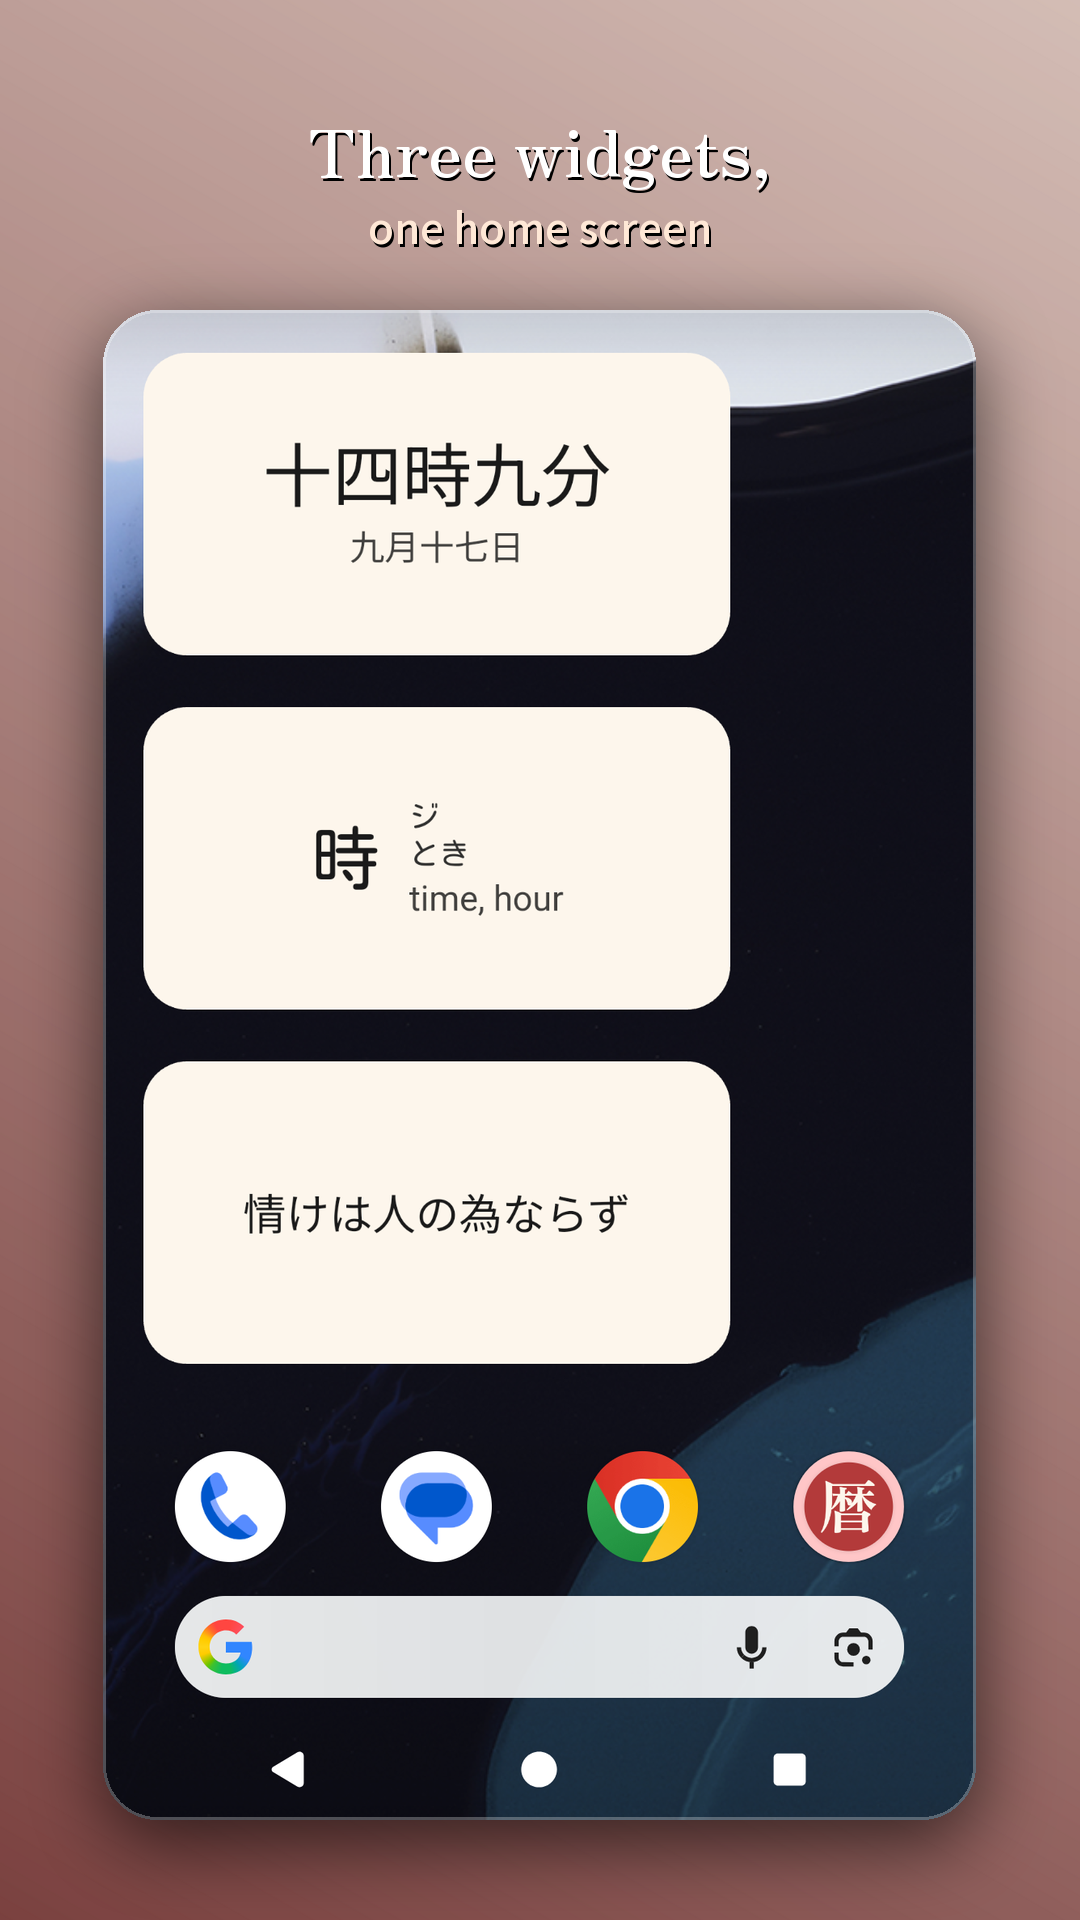
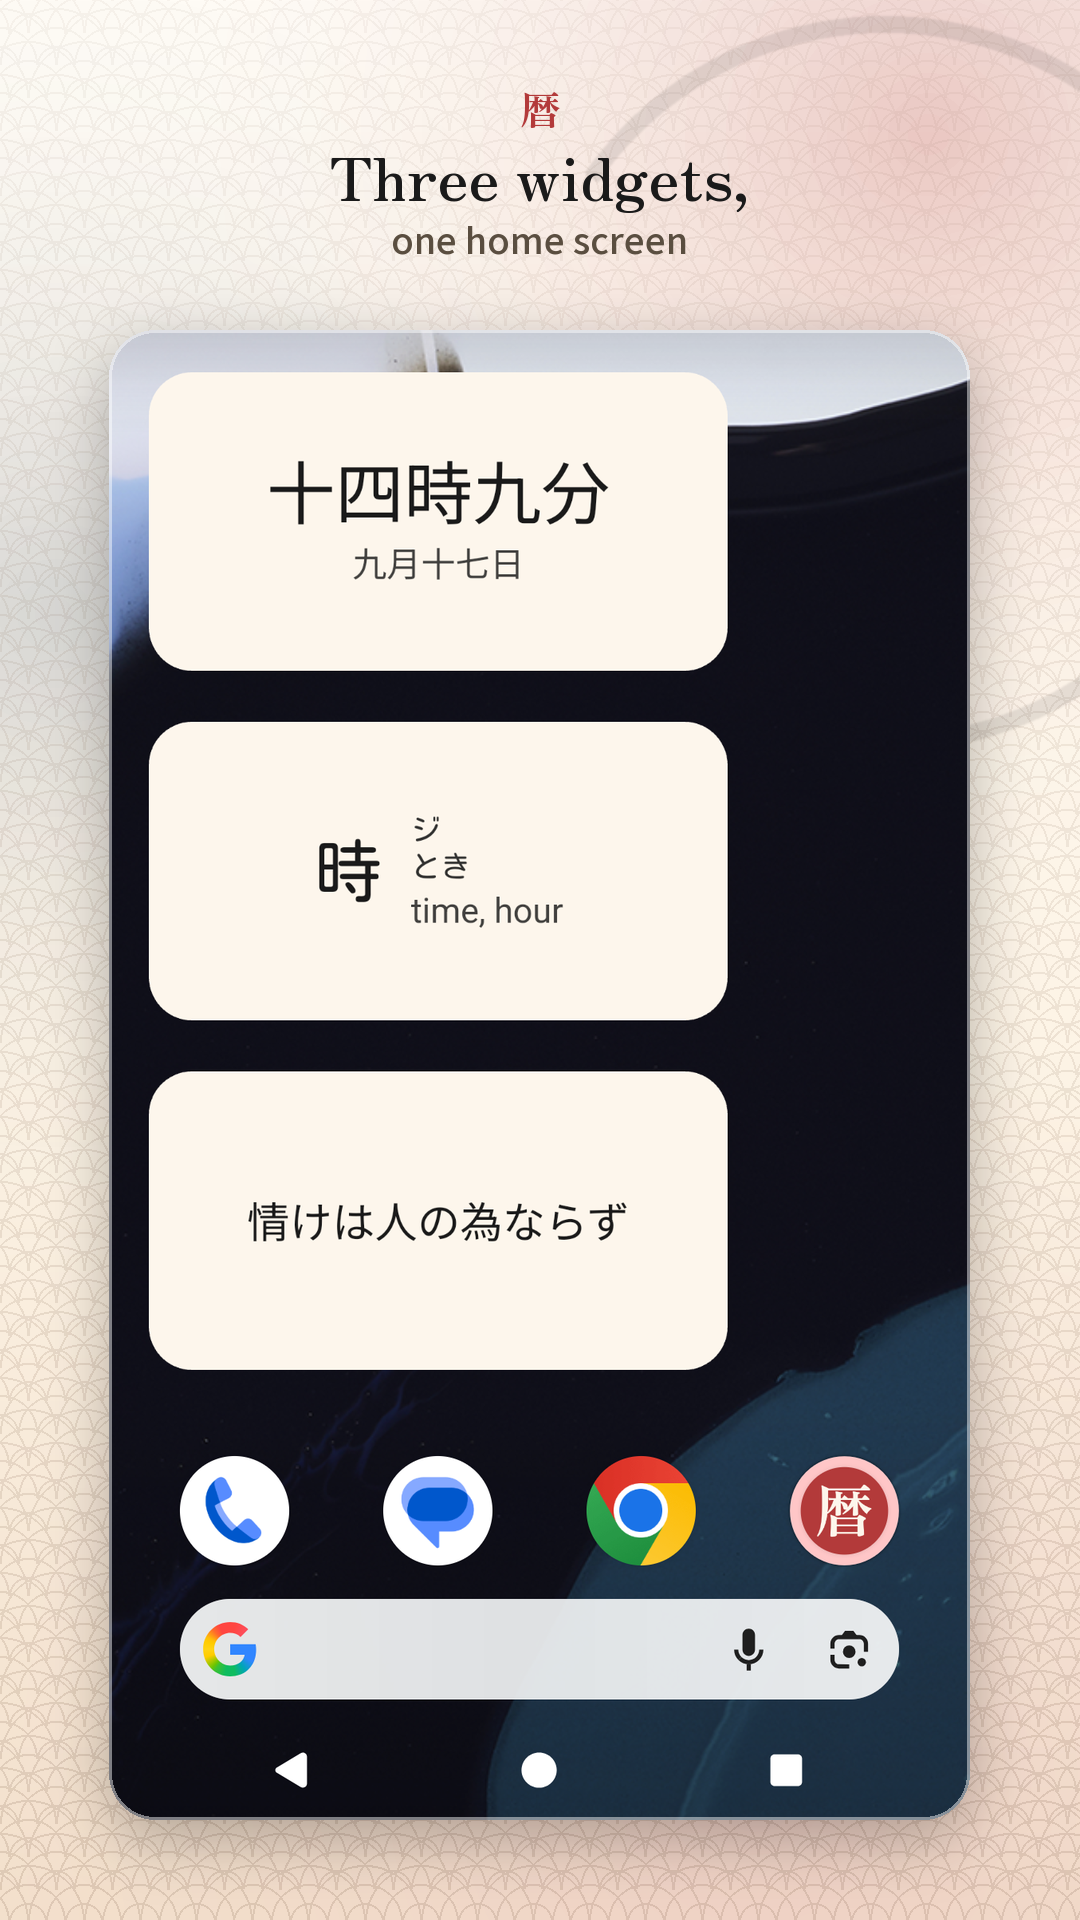
Redesign promo assets with the app's own washi/seigaiha visual identity

diff --git a/scripts/generate_store_assets.py b/scripts/generate_store_assets.py
@@ -1,6 +1,11 @@
 #!/usr/bin/env python3
 """Generate every Play Store image from the raw captures.
 
+The backdrop mirrors the app's own WashiBackground (lib/core/widgets/
+washi_background.dart): a seigaiha wave field, colour aura pools and an
+ensō ring, in the app's real washi/vermillion palette — not a generic
+diagonal-gradient promo template.
+
 Inputs
     store_assets/play_store_icon_512.png     already-generated app icon
     store_assets/screenshots/raw/*.png       device captures, status bar cropped
@@ -12,6 +17,7 @@ Outputs
 Run from the project root:  python3 scripts/generate_store_assets.py
 """
 
+import math
 import pathlib
 import sys
 
@@ -26,10 +32,13 @@ FONT_DIR = ROOT / "assets" / "fonts"
 FONT_DISPLAY = str(FONT_DIR / "ZenOldMincho-Bold.ttf")
 FONT_BODY = str(FONT_DIR / "NotoSansJP-Medium.ttf")
 
-KINARI = (0xFD, 0xF6, 0xEC)
+# The app's own palette (lib/core/theme/kanji_palette.dart).
 SUMI = (0x1A, 0x1A, 0x1A)
-VERMILLION = (0xB3, 0x3A, 0x3A)
-GOLD = (0xA8, 0x84, 0x2C)
+SHU = (0xB3, 0x3A, 0x3A)
+AI = (0x1F, 0x3A, 0x5F)
+KINARI = (0xFD, 0xF6, 0xEC)
+SAKURA = (0xD9, 0x8C, 0xA0)
+INK_LINE = (0x7A, 0x5C, 0x46)
 
 SLIDES = [
     ("home", "Three widgets,", "one home screen"),
@@ -48,20 +57,87 @@ def font(path, size):
         return ImageFont.load_default()
 
 
-def diagonal_gradient(size):
+def washi_canvas(size):
+    """The app's WashiBackground, redrawn at promo scale: base wash,
+    seigaiha waves, colour auras, an ensō ring."""
     w, h = size
-    small = Image.new("RGB", (2, 256))
-    d = ImageDraw.Draw(small)
-    for y in range(256):
-        t = y / 255
-        colour = tuple(
-            int(KINARI[i] + (VERMILLION[i] * 0.55 - KINARI[i]) * t) for i in range(3)
-        )
-        d.line([(0, y), (1, y)], fill=colour)
-    grad = small.resize((max(w, h) * 2, max(w, h) * 2), Image.BICUBIC)
-    return grad.rotate(-30, resample=Image.BICUBIC).crop(
-        (max(w, h) // 2, max(w, h) // 2, max(w, h) // 2 + w, max(w, h) // 2 + h)
+    canvas = Image.new("RGBA", size, KINARI + (255,))
+
+    # Base wash — three-stop vertical gradient like the app's own base.
+    top, mid, bottom = (0xFF, 0xFC, 0xF6), (0xFD, 0xF4, 0xE6), (0xF3, 0xE0, 0xCC)
+    grad = Image.new("RGB", (1, h))
+    for y in range(h):
+        t = y / max(h - 1, 1)
+        if t < 0.55:
+            local = t / 0.55
+            colour = tuple(int(top[i] + (mid[i] - top[i]) * local) for i in range(3))
+        else:
+            local = (t - 0.55) / 0.45
+            colour = tuple(int(mid[i] + (bottom[i] - mid[i]) * local) for i in range(3))
+        grad.putpixel((0, y), colour)
+    canvas.alpha_composite(grad.resize((w, h)).convert("RGBA"))
+
+    # Colour aura pools, same anchor points/relative sizes as the app.
+    def aura(centre, radius, colour, alpha):
+        layer = Image.new("RGBA", size, (0, 0, 0, 0))
+        d = ImageDraw.Draw(layer)
+        steps = 40
+        for i in range(steps, 0, -1):
+            frac = i / steps
+            a = int(alpha * (1 - frac) ** 2)
+            r = radius * frac
+            d.ellipse(
+                [centre[0] - r, centre[1] - r, centre[0] + r, centre[1] + r],
+                fill=colour + (a,),
+            )
+        canvas.alpha_composite(layer)
+
+    aura((w * 0.86, h * 0.07), w * 0.75, SHU, 70)
+    aura((w * 0.05, h * 0.32), w * 0.68, AI, 46)
+    aura((w * 0.7, h * 0.93), w * 0.85, SAKURA, 58)
+
+    # Seigaiha wave field.
+    wave_layer = Image.new("RGBA", size, (0, 0, 0, 0))
+    wd = ImageDraw.Draw(wave_layer)
+    radius = w * 0.052
+    rings = 3
+    step_x = radius
+    step_y = radius * 0.58
+    rows = int(h / step_y) + 2
+    cols = int(w / step_x) + 3
+    for row in range(rows):
+        y = row * step_y
+        depth = min(y / h, 1.0)
+        alpha = int(14 + depth * 30)
+        offset_x = 0 if row % 2 == 0 else step_x / 2
+        for col in range(-1, cols):
+            cx = col * step_x + offset_x
+            for ring in range(1, rings + 1):
+                r = radius * ring / rings
+                wd.arc(
+                    [cx - r, y - r, cx + r, y + r],
+                    180,
+                    360,
+                    fill=INK_LINE + (alpha,),
+                    width=2,
+                )
+    canvas.alpha_composite(wave_layer)
+
+    # Ensō ring, upper right, brushed feel via blur.
+    enso = Image.new("RGBA", size, (0, 0, 0, 0))
+    ed = ImageDraw.Draw(enso)
+    ecx, ecy = w * 0.82, h * 0.2
+    er = w * 0.34
+    ed.arc(
+        [ecx - er, ecy - er, ecx + er, ecy + er],
+        -145,
+        135,
+        fill=SUMI + (26,),
+        width=int(w * 0.016),
     )
+    canvas.alpha_composite(enso.filter(ImageFilter.GaussianBlur(1)))
+
+    return canvas
 
 
 def rounded(img, radius):
@@ -84,35 +160,39 @@ def drop_shadow(canvas, box, radius, blur, alpha, offset):
     canvas.alpha_composite(shadow.filter(ImageFilter.GaussianBlur(blur)))
 
 
-def centered(draw, y, text, fnt, fill, width, shadow=True):
+def centered(draw, y, text, fnt, fill, width, shadow_colour=None):
     box = draw.textbbox((0, 0), text, font=fnt)
     x = (width - (box[2] - box[0])) // 2 - box[0]
-    if shadow:
-        draw.text((x + 2, y + 3), text, font=fnt, fill=(0, 0, 0, 90))
+    if shadow_colour:
+        draw.text((x + 2, y + 3), text, font=fnt, fill=shadow_colour)
     draw.text((x, y), text, font=fnt, fill=fill)
     return box[3] - box[1]
 
 
 def make_feature_graphic():
     w, h = 1024, 500
-    canvas = diagonal_gradient((w, h)).convert("RGBA")
+    canvas = washi_canvas((w, h))
 
-    size = 260
+    size = 250
     icon = rounded(
         Image.open(ICON).convert("RGB").resize((size, size), Image.LANCZOS),
         int(size * 0.22),
     )
-    ix, iy = 96, (h - size) // 2
-    drop_shadow(canvas, (ix, iy, ix + size, iy + size), int(size * 0.22), 18, 140, (0, 14))
+    ix, iy = 88, (h - size) // 2
+    drop_shadow(canvas, (ix, iy, ix + size, iy + size), int(size * 0.22), 16, 60, (0, 10))
     canvas.alpha_composite(icon, (ix, iy))
 
     d = ImageDraw.Draw(canvas)
-    tx = ix + size + 60
-    f_title = font(FONT_DISPLAY, 100)
-    f_sub = font(FONT_BODY, 32)
-    d.text((tx + 3, 155), "KOYOMI", font=f_title, fill=(0, 0, 0, 90))
-    d.text((tx, 152), "KOYOMI", font=f_title, fill=(255, 255, 255))
-    d.text((tx, 268), "暦 — Japanese home screen widgets", font=f_sub, fill=(255, 240, 225))
+    tx = ix + size + 58
+    f_kanji = font(FONT_DISPLAY, 46)
+    f_title = font(FONT_DISPLAY, 84)
+    f_sub = font(FONT_BODY, 28)
+    d.text((tx, 96), "暦", font=f_kanji, fill=SHU + (255,))
+    d.text((tx, 150), "KOYOMI", font=f_title, fill=SUMI + (255,))
+    d.text((tx, 262), "Japanese home screen widgets", font=f_sub, fill=(0x5A, 0x4E, 0x40, 255))
+
+    line_y = 310
+    d.line([(tx, line_y), (tx + 360, line_y)], fill=SHU + (140,), width=2)
 
     canvas.convert("RGB").save(STORE / "feature_graphic_1024x500.png")
     print("  feature_graphic_1024x500.png  (RGB, no alpha)")
@@ -120,33 +200,36 @@ def make_feature_graphic():
 
 def make_promo(raw_name, line1, line2, out_path):
     w, h = TARGET
-    canvas = diagonal_gradient((w, h)).convert("RGBA")
+    canvas = washi_canvas(TARGET)
 
     d = ImageDraw.Draw(canvas)
-    f1 = font(FONT_DISPLAY, 66)
-    f2 = font(FONT_BODY, 42)
-    y = 100
-    y += centered(d, y, line1, f1, (255, 255, 255), w) + 34
-    centered(d, y, line2, f2, (0xFF, 0xE8, 0xD6), w)
+    f_kanji = font(FONT_DISPLAY, 40)
+    f1 = font(FONT_DISPLAY, 60)
+    f2 = font(FONT_BODY, 36)
+
+    y = 78
+    y += centered(d, y, "暦", f_kanji, SHU + (255,), w) + 16
+    y += centered(d, y, line1, f1, SUMI + (255,), w) + 26
+    centered(d, y, line2, f2, (0x5A, 0x4E, 0x40, 255), w)
 
     shot = Image.open(RAW / f"{raw_name}.png").convert("RGB")
-    top = 310
+    top = 330
     avail_h = h - top - 100
     avail_w = int(w * 0.82)
     scale = min(avail_w / shot.width, avail_h / shot.height)
     shot = shot.resize((int(shot.width * scale), int(shot.height * scale)), Image.LANCZOS)
 
-    radius = 54
+    radius = 46
     sx = (w - shot.width) // 2
     sy = top
-    drop_shadow(canvas, (sx, sy, sx + shot.width, sy + shot.height), radius, 36, 160, (0, 22))
+    drop_shadow(canvas, (sx, sy, sx + shot.width, sy + shot.height), radius, 30, 70, (0, 18))
     canvas.alpha_composite(rounded(shot, radius), (sx, sy))
 
     border = Image.new("RGBA", canvas.size, (0, 0, 0, 0))
     ImageDraw.Draw(border).rounded_rectangle(
         [sx, sy, sx + shot.width - 1, sy + shot.height - 1],
         radius=radius,
-        outline=(255, 255, 255, 70),
+        outline=(255, 255, 255, 120),
         width=3,
     )
     canvas.alpha_composite(border)
